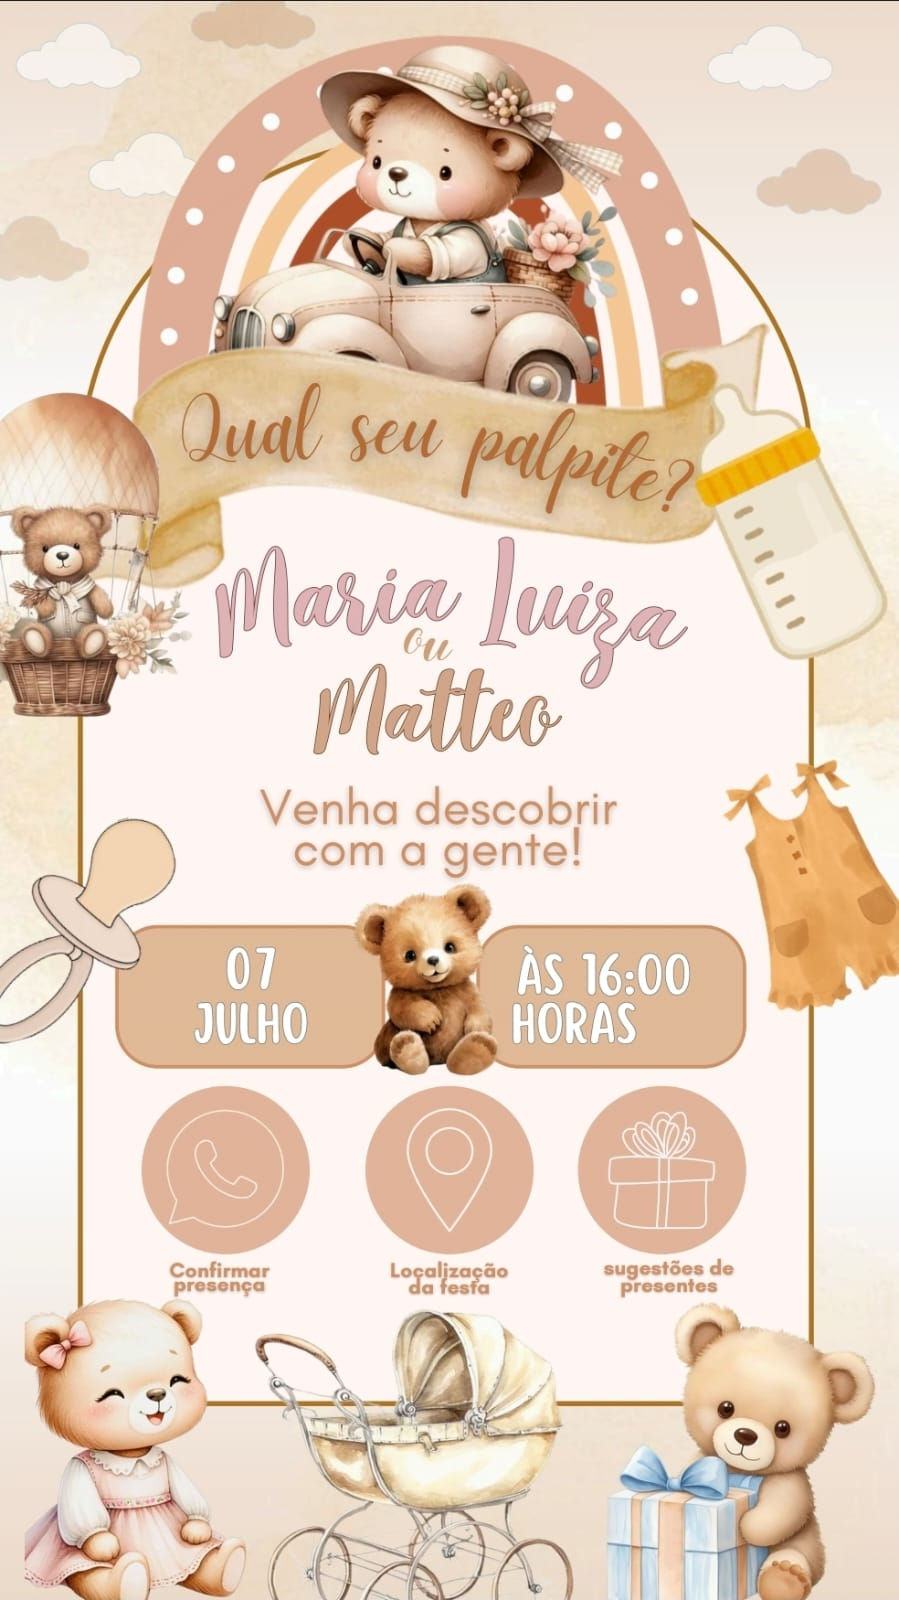
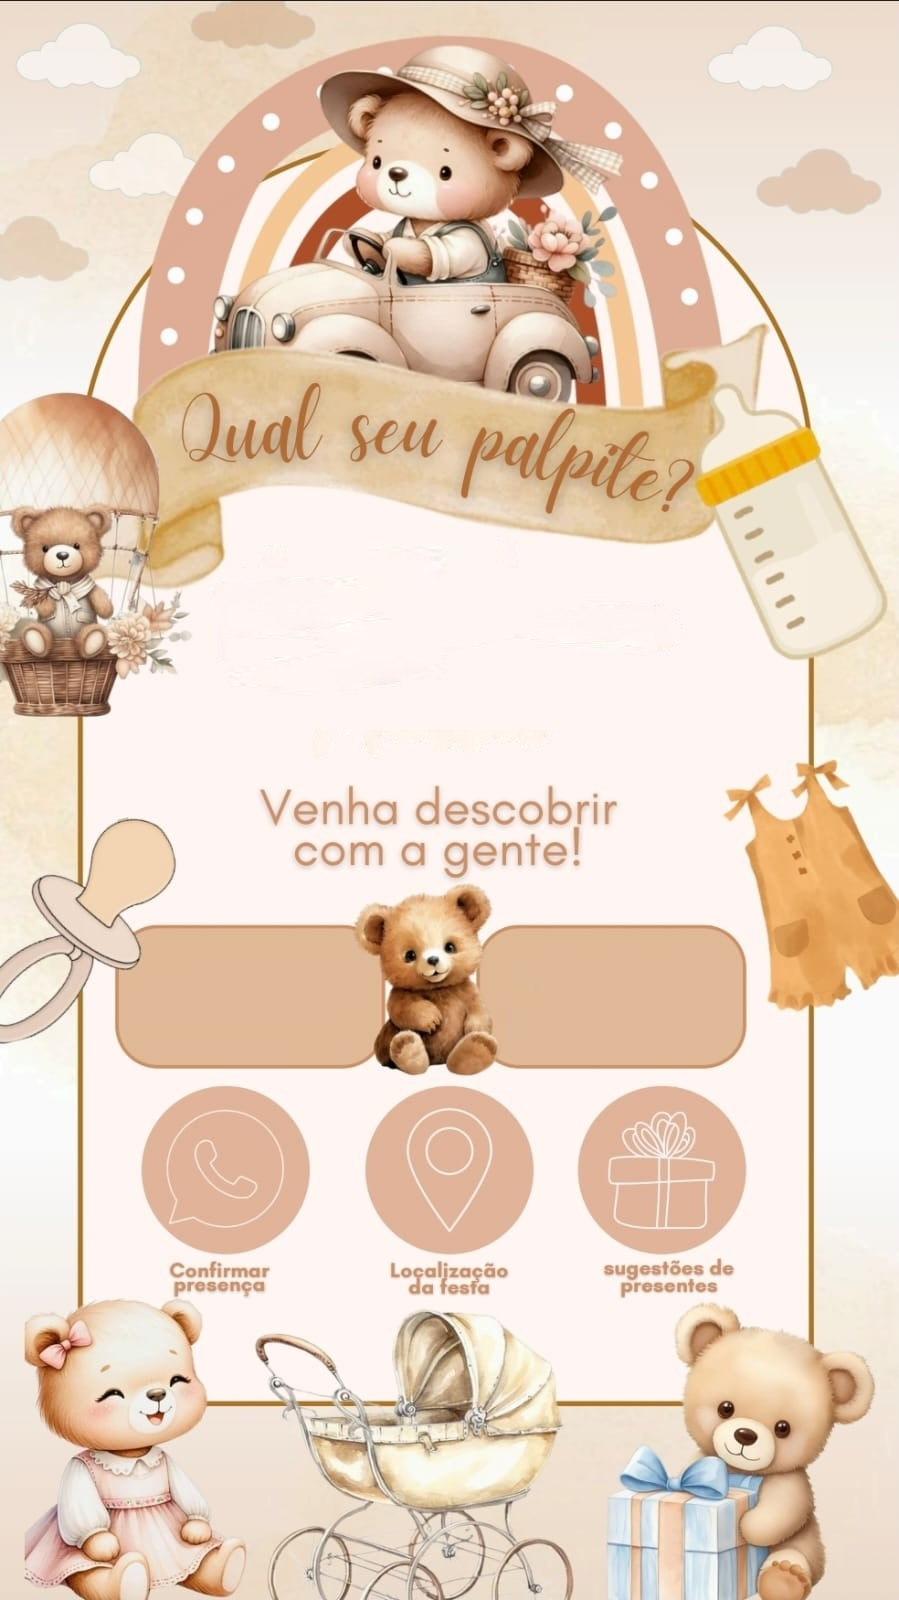
atualização 2

Changed region(s): [[0.218, 0.3125, 0.7786, 0.4688], [0.5606, 0.5938, 0.7786, 0.6562], [0.218, 0.5938, 0.3426, 0.6562]]

diff --git a/convite.css b/convite.css
@@ -1,37 +1,323 @@
-:root { --ink:#725243; --coffee:#76513f; --peach:#efb993; --cream:#fffaf2; --pink:#d6949c; --gold:#d8ac72; }
-* { box-sizing:border-box; }
-html, body { margin:0; min-height:100%; background:radial-gradient(circle at top, #fffdf9, #f4e8da 52%, #eadbc9); color:var(--ink); font-family:Arial, Helvetica, sans-serif; }
-body { min-height:100dvh; display:grid; place-items:center; padding:24px; overflow:hidden; }
-.app { position:relative; width:auto; height:min(calc(100dvh - 48px), 1100px); max-width:calc(100vw - 48px); aspect-ratio:9 / 16; overflow:hidden; border-radius:28px; background:var(--cream); box-shadow:0 30px 80px rgba(102,70,48,.27); }
-.screen { position:absolute; inset:0; opacity:0; pointer-events:none; transform:translateY(20px) scale(.985); transition:opacity .45s ease, transform .5s cubic-bezier(.2,.85,.25,1); }
-.screen.active { opacity:1; pointer-events:auto; transform:none; }
-.art, .art img { display:block; width:100%; height:100%; }
-.art { position:relative; }
-.art img { object-fit:cover; object-position:center top; user-select:none; -webkit-user-drag:none; }
-.editable-names { position:absolute; z-index:2; left:17%; right:17%; top:31%; height:18.5%; display:flex; flex-direction:column; align-items:center; justify-content:center; gap:.25em; overflow:hidden; background:rgba(255,247,247,.97); color:#b87d71; text-align:center; }
-.editable-names strong { display:block; max-width:100%; font:700 clamp(25px,5.8vh,53px)/1.05 "Segoe Script", "Brush Script MT", cursive; overflow-wrap:anywhere; }
-.editable-names span { color:#825d50; font:600 clamp(12px,1.8vh,17px)/1 Arial, sans-serif; }
-.event-data { position:absolute; z-index:2; top:58.3%; width:25%; height:8.7%; display:grid; place-items:center; padding:5px; background:#deb38e; color:#fff; text-align:center; white-space:pre-line; font:800 clamp(13px,2.5vh,24px)/1.08 Arial, sans-serif; text-transform:uppercase; }
-.event-date { left:13.5%; border-radius:28px 0 0 28px; }
-.event-time { right:13.5%; border-radius:0 28px 28px 0; }
-.hotspot { position:absolute; z-index:3; border:0; background:transparent; cursor:pointer; border-radius:28px; -webkit-tap-highlight-color:transparent; touch-action:manipulation; }
-.hotspot:focus-visible, .nav button:focus-visible { outline:3px solid #fff; box-shadow:0 0 0 6px rgba(118,81,63,.5); }
-.open-letter { left:13%; right:13%; top:61%; height:27%; }
-.confirm { left:10%; width:23%; top:68%; height:14%; }
-.location { left:38.5%; width:23%; top:68%; height:14%; }
-.gifts { left:67%; width:23%; top:68%; height:14%; }
-.open-list { left:14%; right:14%; bottom:13%; height:11%; }
-.hint { position:absolute; z-index:4; left:50%; bottom:22px; translate:-50% 0; padding:10px 15px; border-radius:999px; background:rgba(77,52,39,.82); color:#fff; font-size:13px; font-weight:700; white-space:nowrap; box-shadow:0 8px 20px rgba(69,45,30,.18); }
-.pulse { position:absolute; z-index:2; left:50%; top:75%; width:72px; height:72px; translate:-50% -50%; border-radius:50%; border:2px solid rgba(255,255,255,.75); animation:pulse 1.9s ease-out infinite; pointer-events:none; }
-@keyframes pulse { 0% { transform:scale(.62); opacity:0; } 35% { opacity:1; } 100% { transform:scale(1.55); opacity:0; } }
-.nav { position:absolute; z-index:10; top:14px; left:50%; translate:-50% 0; width:calc(100% - 28px); display:flex; justify-content:space-between; pointer-events:none; }
-.nav button { pointer-events:auto; min-height:44px; border:1px solid rgba(255,255,255,.55); border-radius:999px; padding:10px 15px; color:#fff; background:rgba(84,57,43,.7); box-shadow:0 8px 18px rgba(64,42,31,.18); font:700 14px Arial, sans-serif; cursor:pointer; opacity:0; transform:translateY(-6px); transition:opacity .25s ease, transform .25s ease, background .2s ease; }
-.nav button.show { opacity:1; transform:none; }
-.nav button:hover { background:rgba(84,57,43,.86); }
-.progress { position:absolute; z-index:10; right:14px; bottom:16px; display:flex; gap:6px; align-items:center; padding:7px 9px; border-radius:999px; background:rgba(255,255,255,.82); box-shadow:0 5px 16px rgba(89,58,42,.16); }
-.dot { width:8px; height:8px; border-radius:99px; background:rgba(114,82,67,.28); transition:.25s ease; }
-.dot.active { width:22px; background:rgba(114,82,67,.9); }
-.sparkle { position:fixed; z-index:30; width:7px; height:7px; border-radius:50%; background:#fff; pointer-events:none; animation:sparkle .7s ease-out forwards; }
-@keyframes sparkle { to { translate:var(--x) var(--y); scale:0; opacity:0; } }
-@media (max-width:900px) { body { padding:0; background:var(--cream); } .app { width:100%; height:100dvh; max-width:none; border-radius:0; box-shadow:none; } .nav { top:max(12px, calc(env(safe-area-inset-top) + 8px)); width:calc(100% - 20px); } .progress { right:max(10px, calc(env(safe-area-inset-right) + 6px)); bottom:max(10px, calc(env(safe-area-inset-bottom) + 6px)); } .hint { bottom:max(17px, calc(env(safe-area-inset-bottom) + 7px)); } }
-@media (prefers-reduced-motion:reduce) { *,*::before,*::after { animation-duration:.01ms !important; transition-duration:.01ms !important; } }
+:root {
+  --ink: #725243;
+  --coffee: #76513f;
+  --peach: #efb993;
+  --cream: #fffaf2;
+  --pink: #d6949c;
+  --gold: #d8ac72;
+}
+* {
+  box-sizing: border-box;
+}
+html,
+body {
+  margin: 0;
+  min-height: 100%;
+  background: radial-gradient(circle at top, #fffdf9, #f4e8da 52%, #eadbc9);
+  color: var(--ink);
+  font-family: Arial, Helvetica, sans-serif;
+}
+body {
+  min-height: 100dvh;
+  display: grid;
+  place-items: center;
+  padding: 24px;
+  overflow: hidden;
+}
+.app {
+  position: relative;
+  width: auto;
+  height: min(calc(100dvh - 48px), 1100px);
+  max-width: calc(100vw - 48px);
+  aspect-ratio: 9 / 16;
+  overflow: hidden;
+  border-radius: 28px;
+  background: var(--cream);
+  box-shadow: 0 30px 80px rgba(102, 70, 48, 0.27);
+}
+.screen {
+  position: absolute;
+  inset: 0;
+  opacity: 0;
+  pointer-events: none;
+  transform: translateY(20px) scale(0.985);
+  transition:
+    opacity 0.45s ease,
+    transform 0.5s cubic-bezier(0.2, 0.85, 0.25, 1);
+}
+.screen.active {
+  opacity: 1;
+  pointer-events: auto;
+  transform: none;
+}
+.art,
+.art img {
+  display: block;
+  width: 100%;
+  height: 100%;
+}
+.art {
+  position: relative;
+}
+.art img {
+  object-fit: cover;
+  object-position: center top;
+  user-select: none;
+  -webkit-user-drag: none;
+}
+.editable-names {
+  position: absolute;
+  z-index: 2;
+  left: 12%;
+  right: 12%;
+  top: 32%;
+  height: 17.1%;
+  display: flex;
+  flex-direction: column;
+  align-items: center;
+  justify-content: center;
+  gap: 0.18em;
+  overflow: hidden;
+  border-radius: 16px;
+
+  color: #b87d71;
+  text-align: center;
+}
+.editable-names strong {
+  display: block;
+  max-width: 100%;
+  font:
+    700 clamp(24px, 5vh, 46px)/1.04 "Segoe Script",
+    "Brush Script MT",
+    cursive;
+  white-space: nowrap;
+}
+.editable-names span {
+  color: #825d50;
+  font:
+    600 clamp(12px, 1.8vh, 17px)/1 Arial,
+    sans-serif;
+}
+.event-data {
+  position: absolute;
+  z-index: 2;
+  top: 58.3%;
+  height: 8.7%;
+  display: grid;
+  place-items: center;
+  padding: 5px;
+  color: #fff;
+  text-align: center;
+  white-space: pre-line;
+  font:
+    800 clamp(11px, 1.9vh, 18px)/1.08 Arial,
+    sans-serif;
+  text-transform: uppercase;
+}
+.event-date {
+  left: 11%;
+  width: 31%;
+  border-radius: 28px 0 0 28px;
+}
+.event-time {
+  right: 11%;
+  width: 45%;
+  border-radius: 0 28px 28px 0;
+}
+.hotspot {
+  position: absolute;
+  z-index: 3;
+  border: 0;
+  background: transparent;
+  cursor: pointer;
+  border-radius: 28px;
+  -webkit-tap-highlight-color: transparent;
+  touch-action: manipulation;
+}
+.hotspot:focus-visible,
+.nav button:focus-visible {
+  outline: 3px solid #fff;
+  box-shadow: 0 0 0 6px rgba(118, 81, 63, 0.5);
+}
+.open-letter {
+  left: 13%;
+  right: 13%;
+  top: 61%;
+  height: 27%;
+}
+.confirm {
+  left: 10%;
+  width: 23%;
+  top: 68%;
+  height: 14%;
+}
+.location {
+  left: 38.5%;
+  width: 23%;
+  top: 68%;
+  height: 14%;
+}
+.gifts {
+  left: 67%;
+  width: 23%;
+  top: 68%;
+  height: 14%;
+}
+.open-list {
+  left: 14%;
+  right: 14%;
+  bottom: 13%;
+  height: 11%;
+}
+.hint {
+  position: absolute;
+  z-index: 4;
+  left: 50%;
+  bottom: 22px;
+  translate: -50% 0;
+  padding: 10px 15px;
+  border-radius: 999px;
+  background: rgba(77, 52, 39, 0.82);
+  color: #fff;
+  font-size: 13px;
+  font-weight: 700;
+  white-space: nowrap;
+  box-shadow: 0 8px 20px rgba(69, 45, 30, 0.18);
+}
+.pulse {
+  position: absolute;
+  z-index: 2;
+  left: 50%;
+  top: 75%;
+  width: 72px;
+  height: 72px;
+  translate: -50% -50%;
+  border-radius: 50%;
+  border: 2px solid rgba(255, 255, 255, 0.75);
+  animation: pulse 1.9s ease-out infinite;
+  pointer-events: none;
+}
+@keyframes pulse {
+  0% {
+    transform: scale(0.62);
+    opacity: 0;
+  }
+  35% {
+    opacity: 1;
+  }
+  100% {
+    transform: scale(1.55);
+    opacity: 0;
+  }
+}
+.nav {
+  position: absolute;
+  z-index: 10;
+  top: 14px;
+  left: 50%;
+  translate: -50% 0;
+  width: calc(100% - 28px);
+  display: flex;
+  justify-content: space-between;
+  pointer-events: none;
+}
+.nav button {
+  pointer-events: auto;
+  min-height: 44px;
+  border: 1px solid rgba(255, 255, 255, 0.55);
+  border-radius: 999px;
+  padding: 10px 15px;
+  color: #fff;
+  background: rgba(84, 57, 43, 0.7);
+  box-shadow: 0 8px 18px rgba(64, 42, 31, 0.18);
+  font:
+    700 14px Arial,
+    sans-serif;
+  cursor: pointer;
+  opacity: 0;
+  transform: translateY(-6px);
+  transition:
+    opacity 0.25s ease,
+    transform 0.25s ease,
+    background 0.2s ease;
+}
+.nav button.show {
+  opacity: 1;
+  transform: none;
+}
+.nav button:hover {
+  background: rgba(84, 57, 43, 0.86);
+}
+.progress {
+  position: absolute;
+  z-index: 10;
+  right: 14px;
+  bottom: 16px;
+  display: flex;
+  gap: 6px;
+  align-items: center;
+  padding: 7px 9px;
+  border-radius: 999px;
+  background: rgba(255, 255, 255, 0.82);
+  box-shadow: 0 5px 16px rgba(89, 58, 42, 0.16);
+}
+.dot {
+  width: 8px;
+  height: 8px;
+  border-radius: 99px;
+  background: rgba(114, 82, 67, 0.28);
+  transition: 0.25s ease;
+}
+.dot.active {
+  width: 22px;
+  background: rgba(114, 82, 67, 0.9);
+}
+.sparkle {
+  position: fixed;
+  z-index: 30;
+  width: 7px;
+  height: 7px;
+  border-radius: 50%;
+  background: #fff;
+  pointer-events: none;
+  animation: sparkle 0.7s ease-out forwards;
+}
+@keyframes sparkle {
+  to {
+    translate: var(--x) var(--y);
+    scale: 0;
+    opacity: 0;
+  }
+}
+@media (max-width: 900px) {
+  body {
+    padding: 0;
+    background: radial-gradient(circle at top, #fffdf9, #f4e8da 70%);
+  }
+  .app {
+    width: min(100vw, 56.25dvh);
+    height: 100dvh;
+    max-width: none;
+    border-radius: clamp(0px, calc((100vw - 56.25dvh) * 0.08), 28px);
+    box-shadow: 0 20px 50px rgba(102, 70, 48, 0.2);
+  }
+  .nav {
+    top: max(12px, calc(env(safe-area-inset-top) + 8px));
+    width: calc(100% - 20px);
+  }
+  .progress {
+    right: max(10px, calc(env(safe-area-inset-right) + 6px));
+    bottom: max(10px, calc(env(safe-area-inset-bottom) + 6px));
+  }
+  .hint {
+    bottom: max(17px, calc(env(safe-area-inset-bottom) + 7px));
+  }
+}
+@media (prefers-reduced-motion: reduce) {
+  *,
+  *::before,
+  *::after {
+    animation-duration: 0.01ms !important;
+    transition-duration: 0.01ms !important;
+  }
+}

diff --git a/convite-data.js b/convite-data.js
@@ -1,15 +1,15 @@
 // EDITE SOMENTE ESTE ARQUIVO PARA PERSONALIZAR O CONVITE.
 window.CONVITE = {
-  menina: 'Maria Luiza',
-  menino: 'Matteo',
-  textoOu: 'ou',
-  textoAbrir: 'Toque na carta 💌',
-  textoVoltar: '← Voltar',
-  textoProximo: 'Próximo →',
-  textoPresentes: 'Presentes →',
-  data: '07 JULHO',
-  horario: 'ÀS 16:00 HORAS',
-  confirmarPresenca: '', // Ex.: 'https://wa.me/5511999999999'
-  localizacaoFesta: '',  // Ex.: 'https://maps.google.com/?q=...'
-  sugestoesPresentes: '' // Ex.: 'https://lista-de-presentes.com/...'
+  menina: "Luiza",
+  menino: "Enrique",
+  textoOu: "ou",
+  textoAbrir: "Toque na carta 💌",
+  textoVoltar: "← Voltar",
+  textoProximo: "Próximo →",
+  textoPresentes: "Presentes →",
+  data: "01 Novembro",
+  horario: "ÀS 12:30 HORAS",
+  confirmarPresenca: "https://wa.me/5532984273578", // Ex.: 'https://wa.me/5511999999999'
+  localizacaoFesta: "https://maps.app.goo.gl/v2hJMUJsiGQtqToQ7", // Ex.: 'https://maps.google.com/?q=...'
+  sugestoesPresentes: "", // Ex.: 'https://lista-de-presentes.com/...'
 };

diff --git a/convite.js b/convite.js
@@ -13,8 +13,8 @@
   document.getElementById('boyName').textContent = data.menino;
   document.getElementById('orText').textContent = data.textoOu || 'ou';
   document.getElementById('openHint').textContent = data.textoAbrir || 'Toque na carta 💌';
-  document.getElementById('eventDate').textContent = data.data;
-  document.getElementById('eventTime').textContent = data.horario;
+  document.getElementById('eventDate').textContent = String(data.data).replace(' ', '\n');
+  document.getElementById('eventTime').textContent = String(data.horario).replace(/\s+(HORAS?)$/i, '\n$1');
   back.textContent = data.textoVoltar || '← Voltar';
 
   function updateNavigation() {
